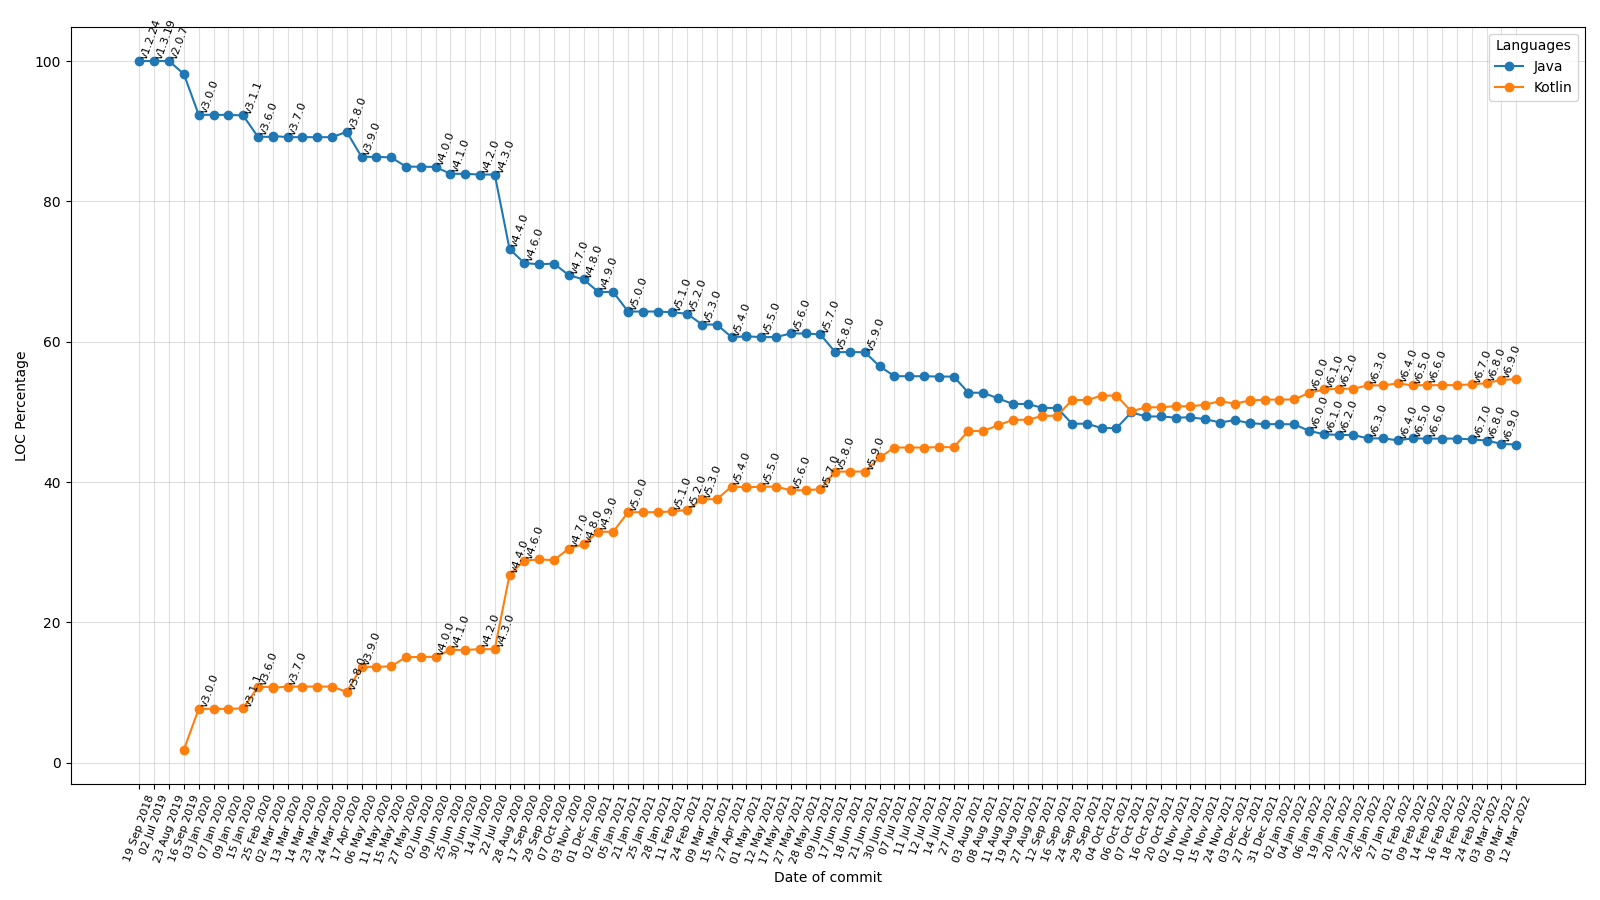
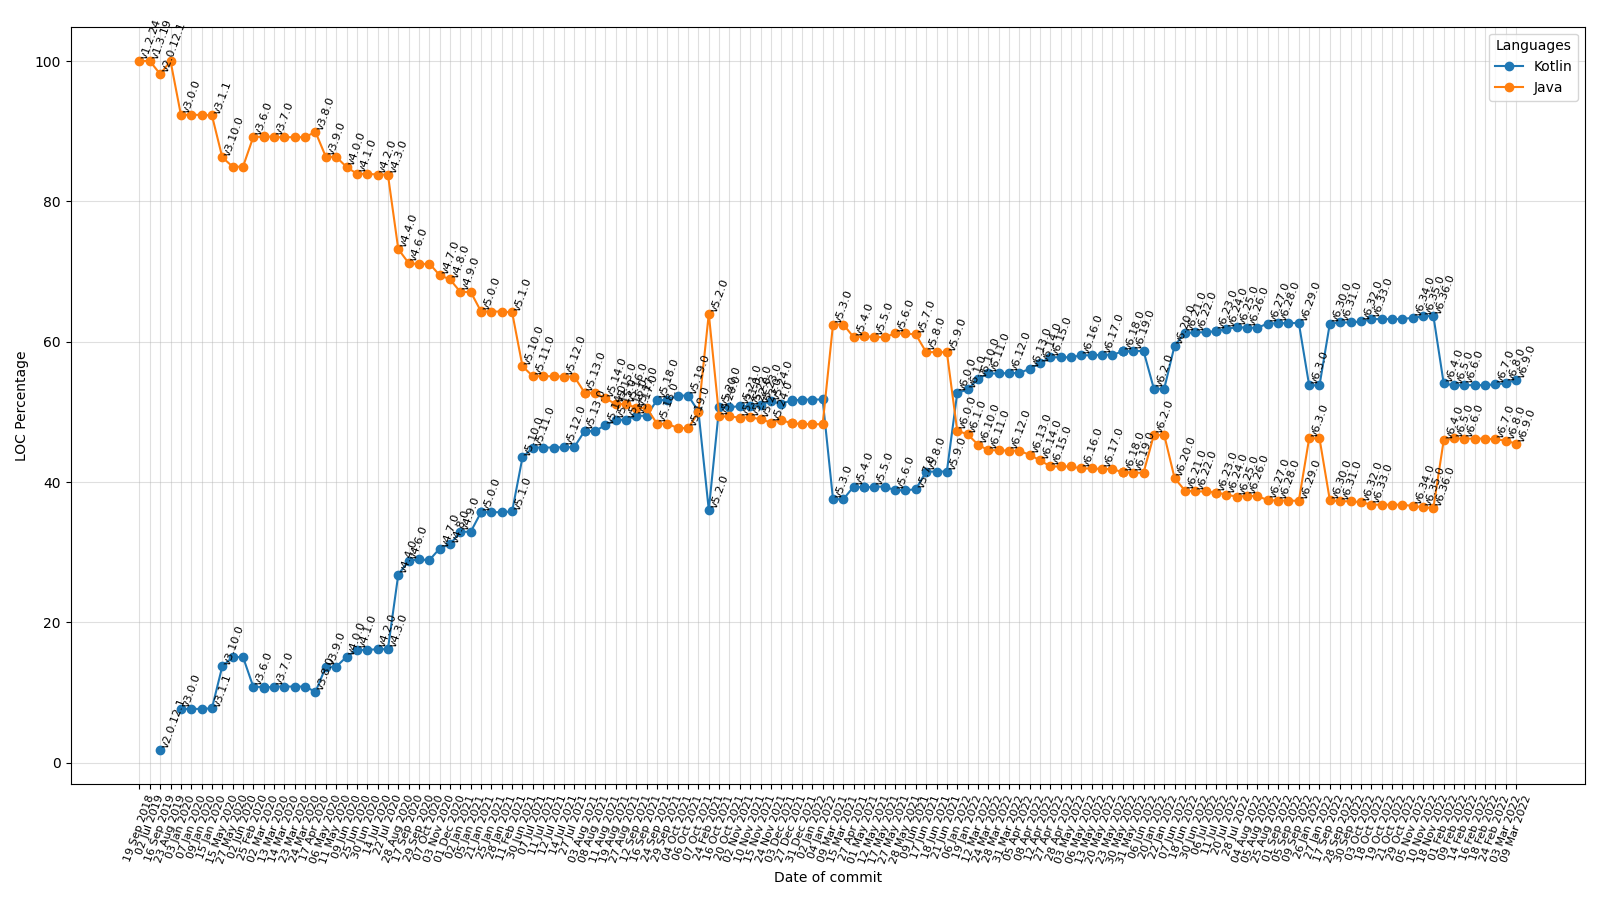
Sort tags by commit date

Changed region(s): [[0.0625, 0.0311, 0.9688, 0.9644]]

diff --git a/language_analyzer.py b/language_analyzer.py
@@ -4,16 +4,18 @@ from pathlib import Path
 import time
 from linguist_wrapper import linguist
 
-# Creates a repo object of given git and clones if not exist. 
+# Creates a repo object of given git and clones if not exist.
 def git_repo(url: str, branch: str, repo_path: str):
-    if not (repo_path / ".git").is_dir(): repo = git.Repo.clone_from(url, repo_path)
-    else: repo = git.Repo(repo_path)
+    if not (repo_path / ".git").is_dir():
+        repo = git.Repo.clone_from(url, repo_path)
+    else:
+        repo = git.Repo(repo_path)
     # Checkout to required branch
     repo.git.checkout(branch)
     return repo
 
 # Provide list of dict containing language graph for each tags on given repo
-def repo_languages() -> Tuple[Set[str], List[Dict[str,str]], str]:
+def repo_languages() -> Tuple[Set[str], List[Dict[str, str]], str]:
     repo_url = input('Enter a valid git url:')
     branch_name = input('Enter the branch name:')
     repo_name = repo_url.split('.git')[0].split('/')[-1]
@@ -21,23 +23,24 @@ def repo_languages() -> Tuple[Set[str], List[Dict[str,str]], str]:
 
     repo = git_repo(repo_url, branch_name, repo_path)
     # Sorts tag by version_code in ascending order
-    tags = sorted(repo.tags, key= lambda t: list(map(str, t.name.split('v')[1].split('.'))))
-    # Maintaining set of headers, we don't know what all languages are used in repo thought out the git-history 
-    # so by looping over tags we update all language detected at that checkout. 
+    tags = sorted(repo.tags, key=lambda t: t.commit.committed_date)
+    # Maintaining set of headers, we don't know what all languages are used in repo thought out the git-history
+    # so by looping over tags we update all language detected at that checkout.
     headers: Set[str] = set()
-    langs: List[Dict[str,str]] = [] 
+    langs: List[Dict[str, str]] = []
 
-    for tag in tags :
+    for tag in tags:
         repo.git.checkout(tag)
         # Tags might be created on a single day, that is why relying on commit date
-        commit  = repo.head.commit
+        commit = repo.head.commit
         date = time.strftime("%d %b %Y", time.gmtime(commit.committed_date))
-        detected_langs = sorted(linguist(repo_path), key= lambda l: list(map(str, l[0])))
-        metaDict = { "Tag": tag.name, "Date": date }
+        detected_langs = sorted(linguist(repo_path),
+                                key=lambda l: list(map(str, l[0])))
+        metaDict = {"Tag": tag.name, "Date": date}
         lang_dict = dict(detected_langs)
         row_dict = metaDict | lang_dict
         langs.append(row_dict)
         headers.update(row_dict.keys())
         print(row_dict)
-    
+
     return (headers, langs, repo_name)

diff --git a/language_graph.py b/language_graph.py
@@ -7,23 +7,23 @@ def create_plot(path: str):
     data = pd.read_csv(csv_path)
 
     # Only language data frame are required to plot values, dropping Tag and Date columns
-    lang_data = data.copy().drop(["Tag", "Date"], axis = 1)
+    lang_data = data.copy().drop(["Tag", "Date"], axis=1)
 
     # set figureSize to full screen
-    plt.figure(figsize=(16,9), tight_layout=True)
+    plt.figure(figsize=(16, 9), tight_layout=True)
 
     # Loop over languages detected in repo since first tag
     for lang in lang_data.columns:
-        plt.plot(data.Date, data[lang], marker='o', label = lang)
+        plt.plot(data.Date, data[lang], marker='o', label=lang)
         current_major_tag_version = "0"
         # Provide annotation for major version i.e, 5.6, 5.7, ignoring 5.6.1, 5.6.2
         for i, tag in enumerate(data.Tag):
             major_tag_version = ".".join(tag.split("v")[1].split(".")[:2])
             if major_tag_version > current_major_tag_version:
-                plt.annotate(tag, xy=(data.at[i,"Date"], data.at[i,lang]),fontsize = 8, ha = 'left', va = "bottom", rotation = 70)
+                plt.annotate(tag, xy=(data.at[i, "Date"], data.at[i, lang]), fontsize=8, ha='left', va="bottom", rotation=70)
                 current_major_tag_version = major_tag_version
 
-    plt.grid(alpha=0.4)    
+    plt.grid(alpha=0.4)
     plt.xticks(fontsize=8, rotation=70)
     plt.xlabel("Date of commit")
     plt.ylabel("LOC Percentage")

diff --git a/langauge_detector.py b/langauge_detector.py
@@ -5,9 +5,10 @@ from language_graph import create_plot
 from language_analyzer import repo_languages
 
 # Save language analyses in csv
-def dump_language_data(path: str, headers: Set[str], langs: List[Dict[str,str]] ) -> str:
+def dump_language_data(path: str, headers: Set[str], langs: List[Dict[str, str]]) -> str:
     csv_path = path + ".csv"
-    if os.path.exists(csv_path): os.remove(csv_path)
+    if os.path.exists(csv_path):
+        os.remove(csv_path)
 
     with open(csv_path, 'w+', newline='') as file:
         writer = csv.DictWriter(file, headers)
@@ -16,10 +17,12 @@ def dump_language_data(path: str, headers: Set[str], langs: List[Dict[str,str]] 
             writer.writerow(lang)
         file.close()
 
+
 def analyze():
     (headers, langs, repo_name) = repo_languages()
     path = "./reports/" + repo_name + "-language"
     dump_language_data(path, headers, langs)
     create_plot(path)
+
 
 analyze()
